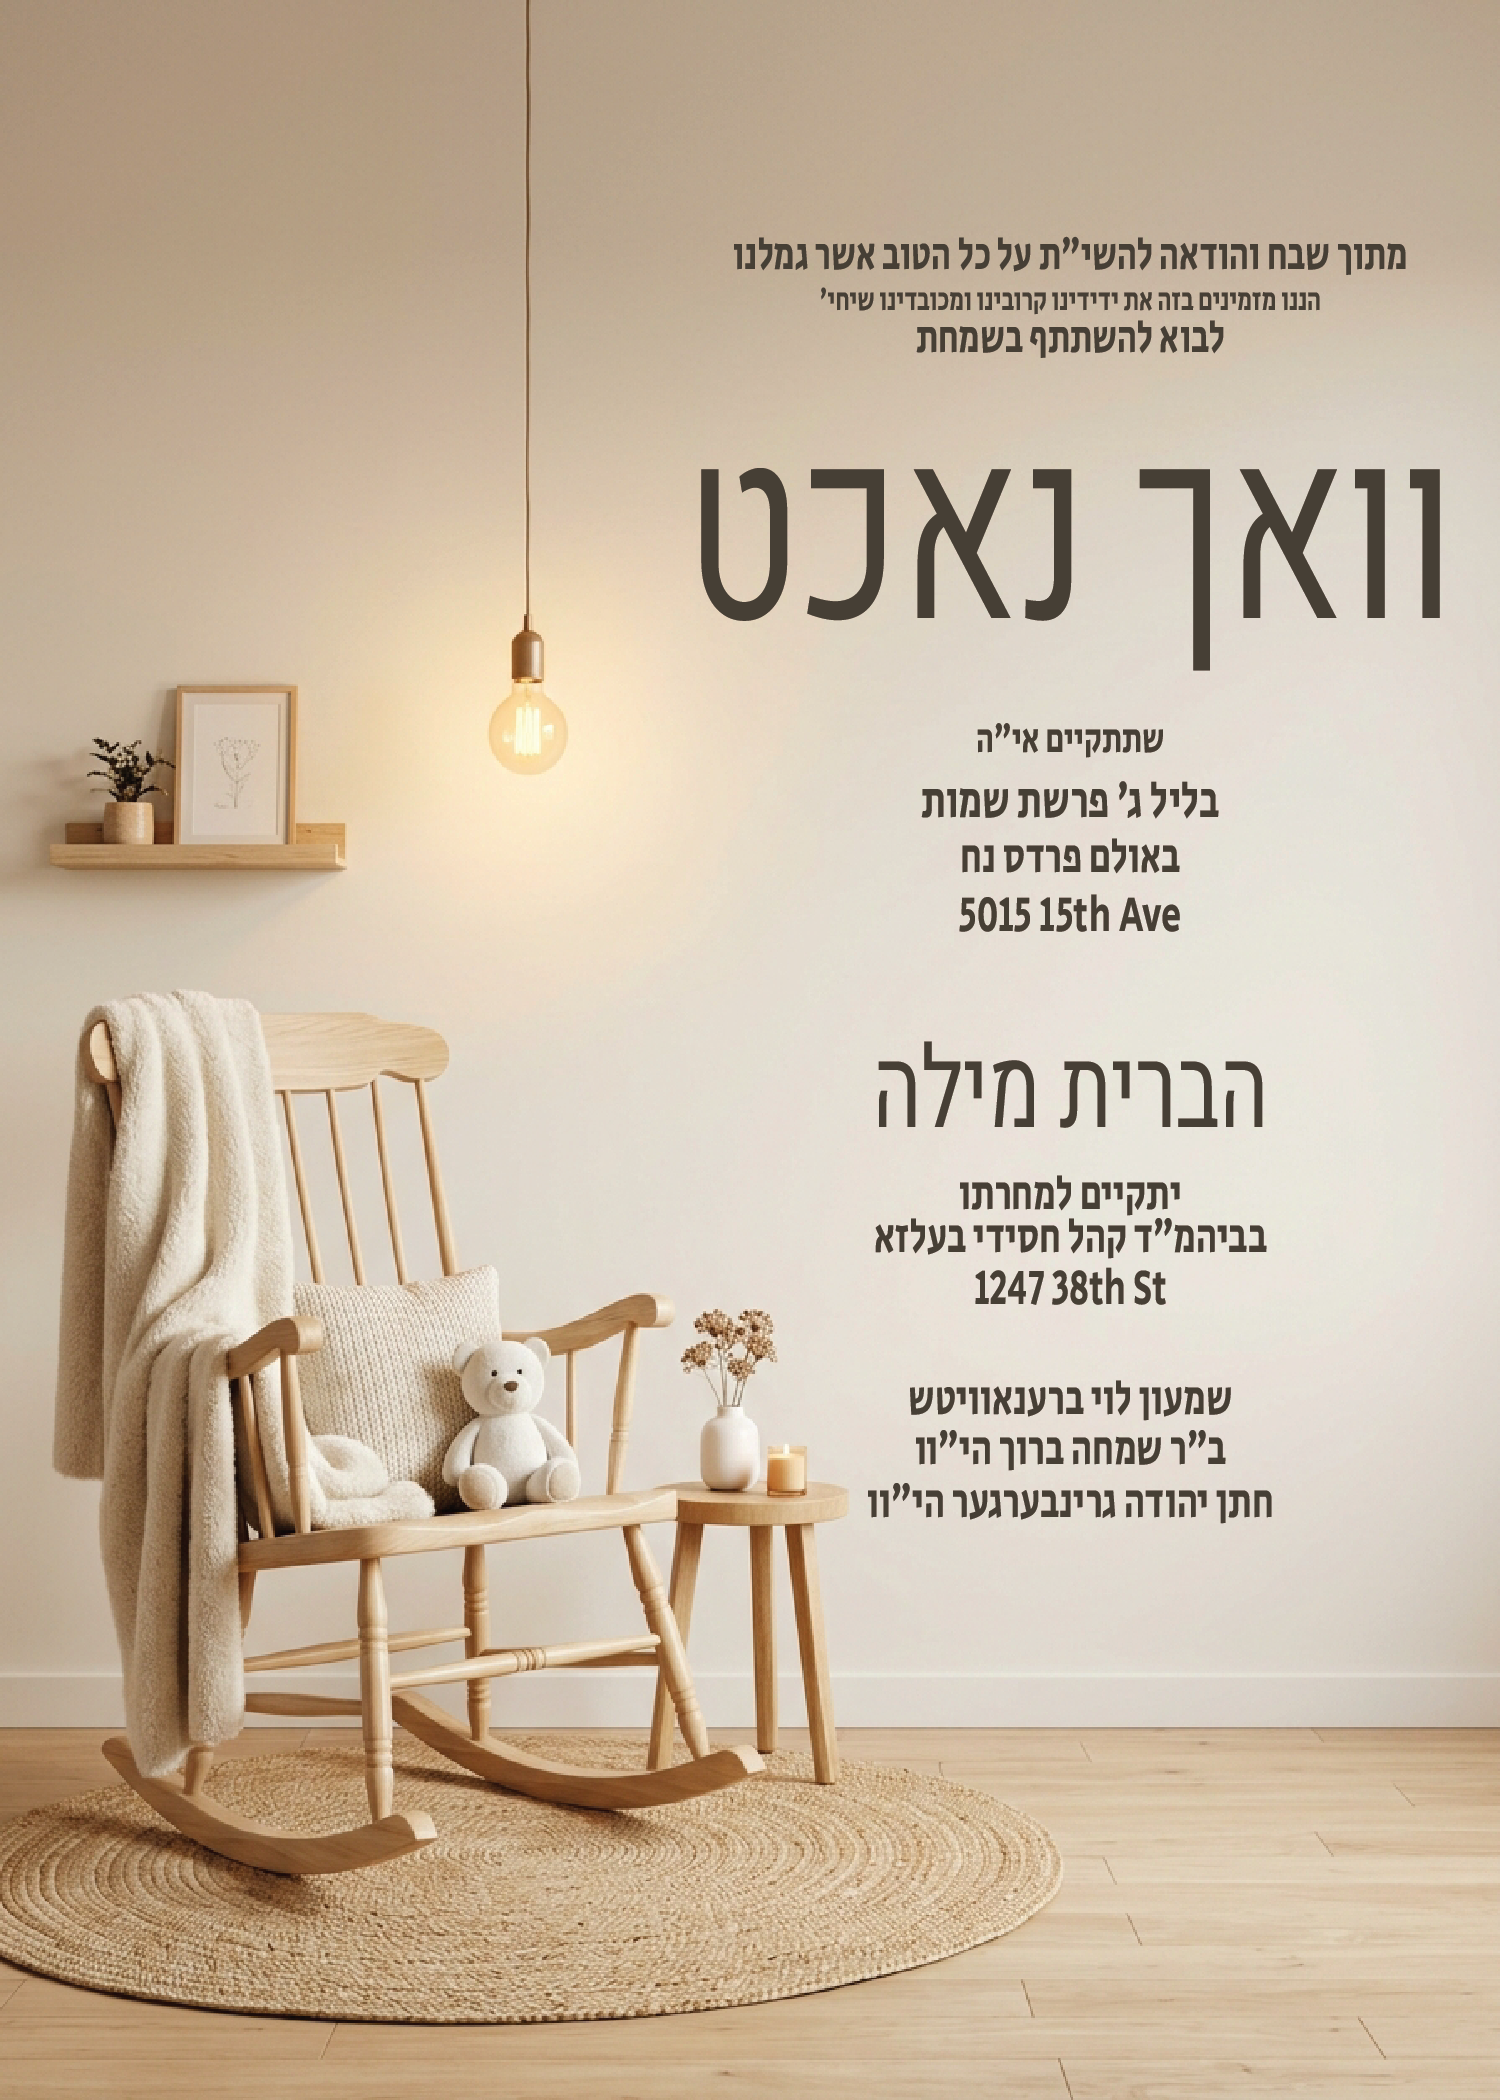
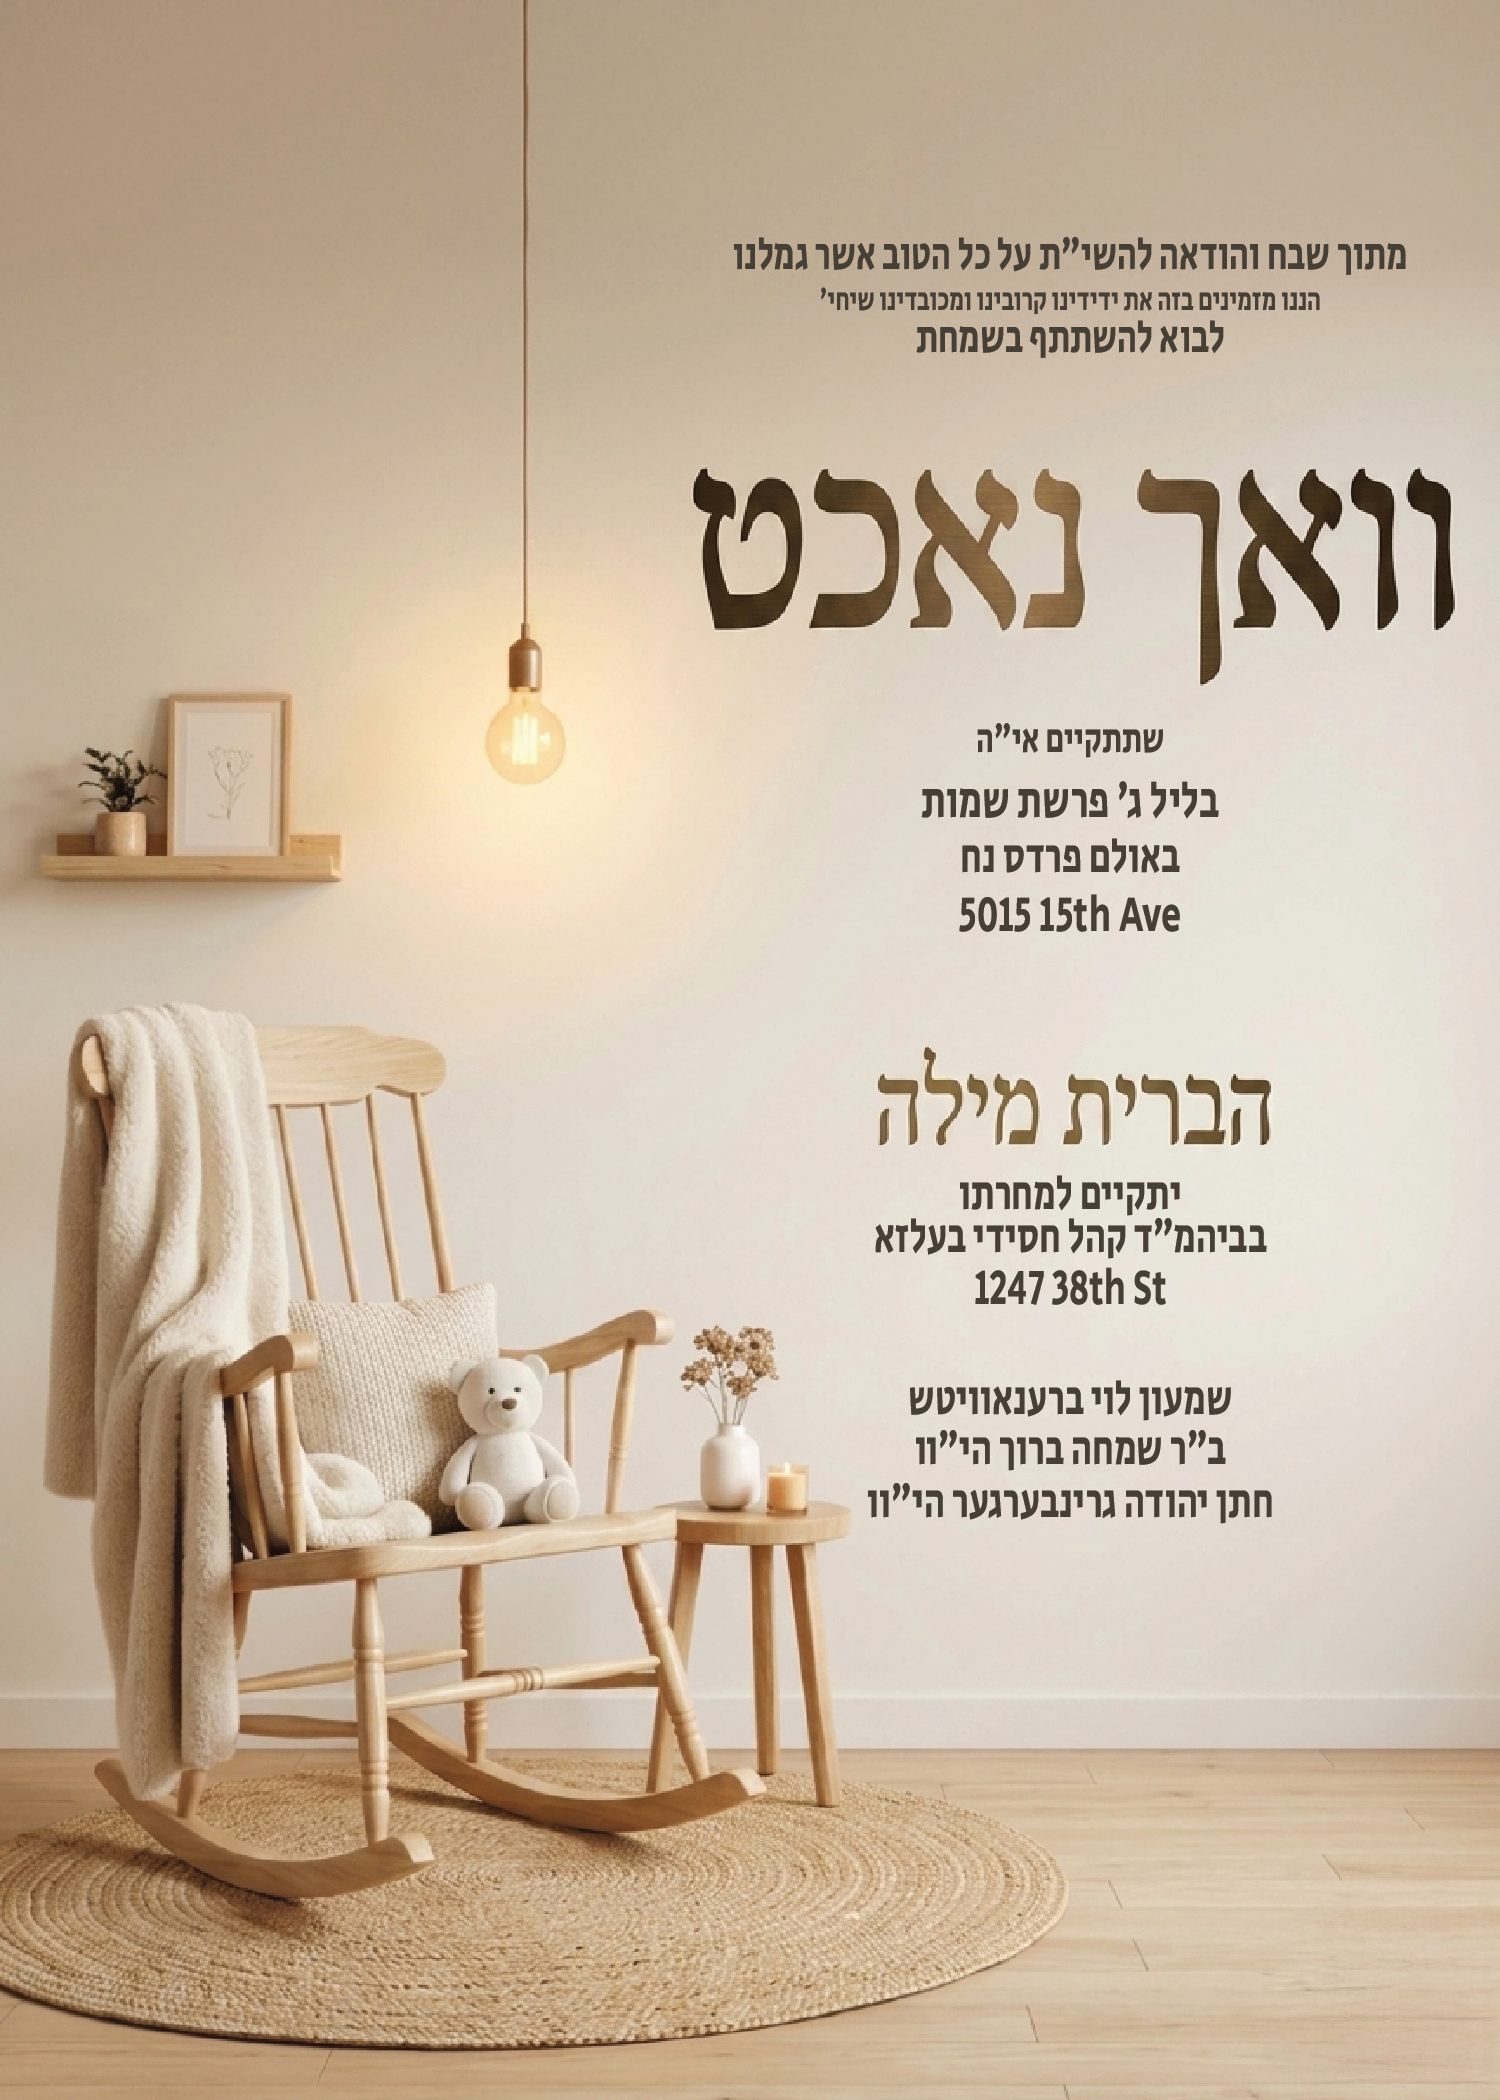
Admin editor: font weight slider, anchor control, scrollable layout, folders collapsed by default

diff --git a/app/admin/template-editor/page.tsx b/app/admin/template-editor/page.tsx
@@ -21,7 +21,9 @@ type Layer = {
   ty: number;
   restTransform: string;
   fontSize: number | null;
+  fontWeight: number | null;
   fill: string | null;
+  anchor: 'start' | 'middle' | 'end' | null;
 };
 
 type DragState = {
@@ -59,8 +61,10 @@ function parseLayers(svgText: string): Layer[] {
     const id = parent?.tagName.toLowerCase() === 'g' && parent.id ? parent.id : null;
     const label = textEl.querySelector('tspan')?.textContent?.trim().slice(0, 24) ?? `text-${idx}`;
     const fsSrc = textEl.getAttribute('font-size');
+    const fwSrc = textEl.getAttribute('font-weight');
     const fillSrc = textEl.getAttribute('fill');
-    layers.push({ index: idx, id, originalId: id, label, tx: parseFloat(m[1]), ty: parseFloat(m[2]), restTransform: m[3], fontSize: fsSrc ? parseFloat(fsSrc) : null, fill: fillSrc ?? null });
+    const anchorSrc = textEl.getAttribute('text-anchor') as 'start' | 'middle' | 'end' | null;
+    layers.push({ index: idx, id, originalId: id, label, tx: parseFloat(m[1]), ty: parseFloat(m[2]), restTransform: m[3], fontSize: fsSrc ? parseFloat(fsSrc) : null, fontWeight: fwSrc ? parseFloat(fwSrc) : null, fill: fillSrc ?? null, anchor: anchorSrc });
   });
   return layers;
 }
@@ -79,8 +83,9 @@ function buildSvgForSave(svgSource: string, layers: Layer[], imageOverlays: Imag
     textEl.setAttribute('transform', updated);
     // Font size
     if (layer.fontSize !== null) textEl.setAttribute('font-size', String(Math.round(layer.fontSize * 10) / 10));
-    // Fill color
+    if (layer.fontWeight !== null) textEl.setAttribute('font-weight', String(layer.fontWeight));
     if (layer.fill !== null) textEl.setAttribute('fill', layer.fill);
+    if (layer.anchor !== null) textEl.setAttribute('text-anchor', layer.anchor ?? 'middle');
     // Rename id
     if (layer.originalId && layer.id && layer.id !== layer.originalId) {
       const parent = textEl.parentElement;
@@ -114,7 +119,9 @@ function buildSvgForDisplay(svgSource: string, layers: Layer[]): string {
     );
     textEl.setAttribute('transform', updated);
     if (layer.fontSize !== null) textEl.setAttribute('font-size', String(Math.round(layer.fontSize * 10) / 10));
+    if (layer.fontWeight !== null) textEl.setAttribute('font-weight', String(layer.fontWeight));
     if (layer.fill !== null) textEl.setAttribute('fill', layer.fill);
+    if (layer.anchor !== null) textEl.setAttribute('text-anchor', layer.anchor ?? 'middle');
   });
   const style = doc.createElementNS('http://www.w3.org/2000/svg', 'style');
   style.textContent = `
@@ -478,8 +485,8 @@ export default function TemplateEditorPage() {
     setLayers(prev => prev.map((l, i) => i === idx ? { ...l, [axis]: val } : l));
   }, [pushHistory]);
 
-  const setLayerStyle = useCallback((idx: number, prop: 'fontSize' | 'fill', val: string | number) => {
-    if (prop === 'fontSize' && isNaN(val as number)) return;
+  const setLayerStyle = useCallback((idx: number, prop: 'fontSize' | 'fontWeight' | 'fill' | 'anchor', val: string | number) => {
+    if ((prop === 'fontSize' || prop === 'fontWeight') && isNaN(val as number)) return;
     pushHistory();
     setLayers(prev => prev.map((l, i) => i === idx ? { ...l, [prop]: val } : l));
   }, [pushHistory]);
@@ -573,7 +580,7 @@ export default function TemplateEditorPage() {
   );
 
   return (
-    <div style={{ minHeight: '100vh', background: '#09090b', color: '#fff', display: 'flex', flexDirection: 'column' }}>
+    <div style={{ height: '100vh', overflow: 'hidden', background: '#09090b', color: '#fff', display: 'flex', flexDirection: 'column' }}>
 
       {/* Header */}
       <header style={{ position: 'sticky', top: 0, zIndex: 50, background: 'rgba(9,9,11,0.9)', backdropFilter: 'blur(12px)', borderBottom: border }}>
@@ -637,7 +644,7 @@ export default function TemplateEditorPage() {
               return next;
             });
             return Array.from(cats.entries()).map(([cat, subMap]) => {
-              const catOpen = !collapsed.has(cat);
+              const catOpen = collapsed.has(cat);
               return (
                 <div key={cat}>
                   {/* Category row */}
@@ -652,7 +659,7 @@ export default function TemplateEditorPage() {
 
                   {catOpen && Array.from(subMap.entries()).map(([sub, items]) => {
                     const subKey = `${cat}/${sub}`;
-                    const subOpen = !collapsed.has(subKey);
+                    const subOpen = collapsed.has(subKey);
                     // If there's a subcategory, show a sub-folder row; otherwise list files directly
                     return (
                       <div key={sub}>
@@ -992,7 +999,7 @@ export default function TemplateEditorPage() {
                                 </label>
                               ))}
                             </div>
-                            {/* Font size + color */}
+                            {/* Font size + weight */}
                             <div style={{ display: 'flex', gap: 8, alignItems: 'center' }}>
                               <label style={{ display: 'flex', alignItems: 'center', gap: 4, flex: '0 0 auto' }}>
                                 <span style={{ fontSize: 11, color: 'rgba(255,255,255,0.4)', whiteSpace: 'nowrap' }}>size</span>
@@ -1002,25 +1009,77 @@ export default function TemplateEditorPage() {
                                   placeholder="–"
                                   onChange={e => setLayerStyle(idx, 'fontSize', parseFloat(e.target.value))}
                                   onFocus={e => { const t = e.target; setTimeout(() => t.scrollIntoView({ behavior: 'smooth', block: 'nearest' }), 350); }}
-                                  style={{ width: 64, background: 'rgba(0,0,0,0.4)', border: '1px solid rgba(255,255,255,0.15)', borderRadius: 6, color: '#fff', fontSize: 12, padding: '4px 8px', outline: 'none' }}
+                                  style={{ width: 56, background: 'rgba(0,0,0,0.4)', border: '1px solid rgba(255,255,255,0.15)', borderRadius: 6, color: '#fff', fontSize: 12, padding: '4px 8px', outline: 'none' }}
                                 />
                               </label>
-                              <label style={{ display: 'flex', alignItems: 'center', gap: 4, flex: 1, minWidth: 0 }}>
-                                <span style={{ fontSize: 11, color: 'rgba(255,255,255,0.4)' }}>color</span>
+                              <label style={{ display: 'flex', alignItems: 'center', gap: 6, flex: 1, minWidth: 0 }}>
+                                <span style={{ fontSize: 11, color: 'rgba(255,255,255,0.4)', whiteSpace: 'nowrap' }}>wt</span>
                                 <input
-                                  type="color"
-                                  value={layer.fill && /^#[0-9a-f]{6}$/i.test(layer.fill) ? layer.fill : '#ffffff'}
-                                  onChange={e => setLayerStyle(idx, 'fill', e.target.value)}
-                                  style={{ width: 28, height: 26, padding: '2px', background: 'none', border: '1px solid rgba(255,255,255,0.15)', borderRadius: 5, cursor: 'pointer', flexShrink: 0 }}
+                                  type="range" min="100" max="900" step="100"
+                                  value={layer.fontWeight ?? 400}
+                                  onChange={e => setLayers(prev => prev.map((l, i) => i === idx ? { ...l, fontWeight: parseInt(e.target.value) } : l))}
+                                  onPointerUp={() => pushHistory()}
+                                  style={{ flex: 1, minWidth: 0, accentColor: 'rgba(255,255,255,0.6)', cursor: 'pointer' }}
                                 />
-                                <input
-                                  type="text"
-                                  value={layer.fill ?? ''}
-                                  onChange={e => setLayerStyle(idx, 'fill', e.target.value)}
-                                  onFocus={e => { const t = e.target; setTimeout(() => t.scrollIntoView({ behavior: 'smooth', block: 'nearest' }), 350); }}
-                                  style={{ flex: 1, minWidth: 0, background: 'rgba(0,0,0,0.4)', border: '1px solid rgba(255,255,255,0.15)', borderRadius: 6, color: '#fff', fontSize: 11, padding: '4px 6px', outline: 'none', fontFamily: 'monospace' }}
-                                />
+                                <span style={{ fontSize: 11, color: 'rgba(255,255,255,0.5)', width: 28, textAlign: 'right', fontVariantNumeric: 'tabular-nums' }}>{layer.fontWeight ?? 400}</span>
                               </label>
+                            </div>
+                            {/* Color */}
+                            <label style={{ display: 'flex', alignItems: 'center', gap: 4 }}>
+                              <span style={{ fontSize: 11, color: 'rgba(255,255,255,0.4)' }}>color</span>
+                              <input
+                                type="color"
+                                value={layer.fill && /^#[0-9a-f]{6}$/i.test(layer.fill) ? layer.fill : '#ffffff'}
+                                onChange={e => setLayerStyle(idx, 'fill', e.target.value)}
+                                style={{ width: 28, height: 26, padding: '2px', background: 'none', border: '1px solid rgba(255,255,255,0.15)', borderRadius: 5, cursor: 'pointer', flexShrink: 0 }}
+                              />
+                              <input
+                                type="text"
+                                value={layer.fill ?? ''}
+                                onChange={e => setLayerStyle(idx, 'fill', e.target.value)}
+                                onFocus={e => { const t = e.target; setTimeout(() => t.scrollIntoView({ behavior: 'smooth', block: 'nearest' }), 350); }}
+                                style={{ flex: 1, minWidth: 0, background: 'rgba(0,0,0,0.4)', border: '1px solid rgba(255,255,255,0.15)', borderRadius: 6, color: '#fff', fontSize: 11, padding: '4px 6px', outline: 'none', fontFamily: 'monospace' }}
+                              />
+                            </label>
+                            {/* Text anchor */}
+                            <div style={{ display: 'flex', alignItems: 'center', gap: 6 }}>
+                              <span style={{ fontSize: 11, color: 'rgba(255,255,255,0.4)', whiteSpace: 'nowrap' }}>anchor</span>
+                              <div style={{ display: 'flex', gap: 4 }}>
+                                {(['start', 'middle', 'end'] as const).map(a => (
+                                  <button
+                                    key={a}
+                                    onClick={() => setLayerStyle(idx, 'anchor', a)}
+                                    title={a === 'start' ? 'Left (start)' : a === 'middle' ? 'Center' : 'Right (end)'}
+                                    style={{
+                                      width: 30, height: 22,
+                                      border: `1px solid ${layer.anchor === a ? 'rgba(255,255,255,0.5)' : 'rgba(255,255,255,0.15)'}`,
+                                      borderRadius: 5,
+                                      background: layer.anchor === a ? 'rgba(255,255,255,0.15)' : 'rgba(0,0,0,0.3)',
+                                      cursor: 'pointer',
+                                      display: 'flex', alignItems: 'center', justifyContent: 'center',
+                                      padding: 0, color: 'rgba(255,255,255,0.8)',
+                                    }}
+                                  >
+                                    <svg width="14" height="10" viewBox="0 0 14 10" fill="none">
+                                      {a === 'start' && <>
+                                        <line x1="1" y1="2" x2="13" y2="2" stroke="currentColor" strokeWidth="1.5" strokeLinecap="round"/>
+                                        <line x1="1" y1="5" x2="9"  y2="5" stroke="currentColor" strokeWidth="1.5" strokeLinecap="round"/>
+                                        <line x1="1" y1="8" x2="11" y2="8" stroke="currentColor" strokeWidth="1.5" strokeLinecap="round"/>
+                                      </>}
+                                      {a === 'middle' && <>
+                                        <line x1="1" y1="2" x2="13" y2="2" stroke="currentColor" strokeWidth="1.5" strokeLinecap="round"/>
+                                        <line x1="3" y1="5" x2="11" y2="5" stroke="currentColor" strokeWidth="1.5" strokeLinecap="round"/>
+                                        <line x1="2" y1="8" x2="12" y2="8" stroke="currentColor" strokeWidth="1.5" strokeLinecap="round"/>
+                                      </>}
+                                      {a === 'end' && <>
+                                        <line x1="1"  y1="2" x2="13" y2="2" stroke="currentColor" strokeWidth="1.5" strokeLinecap="round"/>
+                                        <line x1="5"  y1="5" x2="13" y2="5" stroke="currentColor" strokeWidth="1.5" strokeLinecap="round"/>
+                                        <line x1="3"  y1="8" x2="13" y2="8" stroke="currentColor" strokeWidth="1.5" strokeLinecap="round"/>
+                                      </>}
+                                    </svg>
+                                  </button>
+                                ))}
+                              </div>
                             </div>
                           </div>
                         )}
